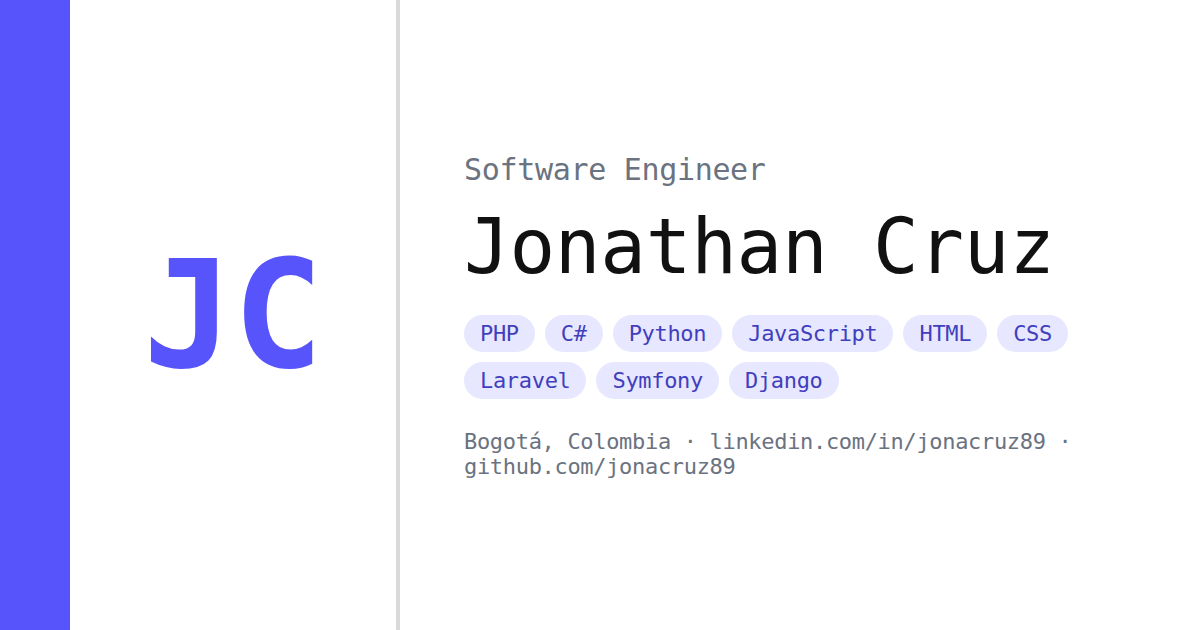
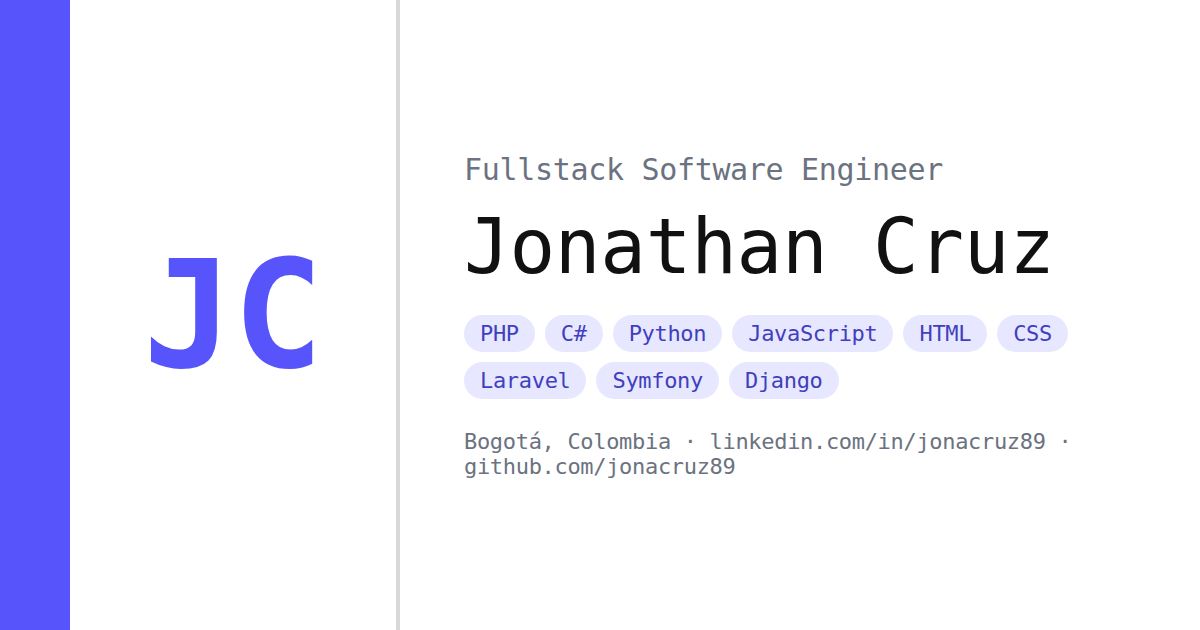
Rewrite CV content with stronger, consistent wording
- Action verbs in past tense (present for current role), fewer generic duties
- Same summary in Spanish and English; title now "Fullstack Software Engineer"
- Compute years of experience automatically via {years} placeholder
- Regenerate share images

Changed region(s): [[0.37, 0.2413, 0.7708, 0.3016]]

diff --git a/src/lib/cv.ts b/src/lib/cv.ts
@@ -42,6 +42,19 @@ export function formatRange (start: string | undefined, end: string | undefined,
   return from || to
 }
 
+/** Whole years since the earliest visible job, computed at build time. */
+const yearsOfExperience = (() => {
+  const starts = data.work.filter((w) => !w.hidden).map((w) => w.startDate).sort()
+  if (!starts.length) return 0
+  const [y, m = '1'] = starts[0].split('-')
+  const now = new Date()
+  const months = (now.getFullYear() - Number(y)) * 12 + (now.getMonth() + 1 - Number(m))
+  return Math.floor(months / 12)
+})()
+
+/** Replaces "{years}" in texts so "más de {years} años" never goes stale. */
+const fillYears = (text: string | undefined) => text?.replaceAll('{years}', String(yearsOfExperience))
+
 /** Cut at a word boundary and add "…" when longer than `max`. */
 function truncate (text: string, max: number): string {
   if (text.length <= max) return text
@@ -76,14 +89,14 @@ export function getCv (locale: Locale) {
     }))
   ].filter((item) => !!item)
 
-  const summary = pickOptional(basics.summary, locale)
+  const summary = fillYears(pickOptional(basics.summary, locale))
 
   return {
     locale,
     labels: ui[locale],
     settings,
     seo: {
-      description: pickOptional(settings.seo.description, locale) ?? truncate(summary ?? pick(basics.label, locale), 155)
+      description: fillYears(pickOptional(settings.seo.description, locale)) ?? truncate(summary ?? pick(basics.label, locale), 155)
     },
     basics: {
       name: basics.name,
